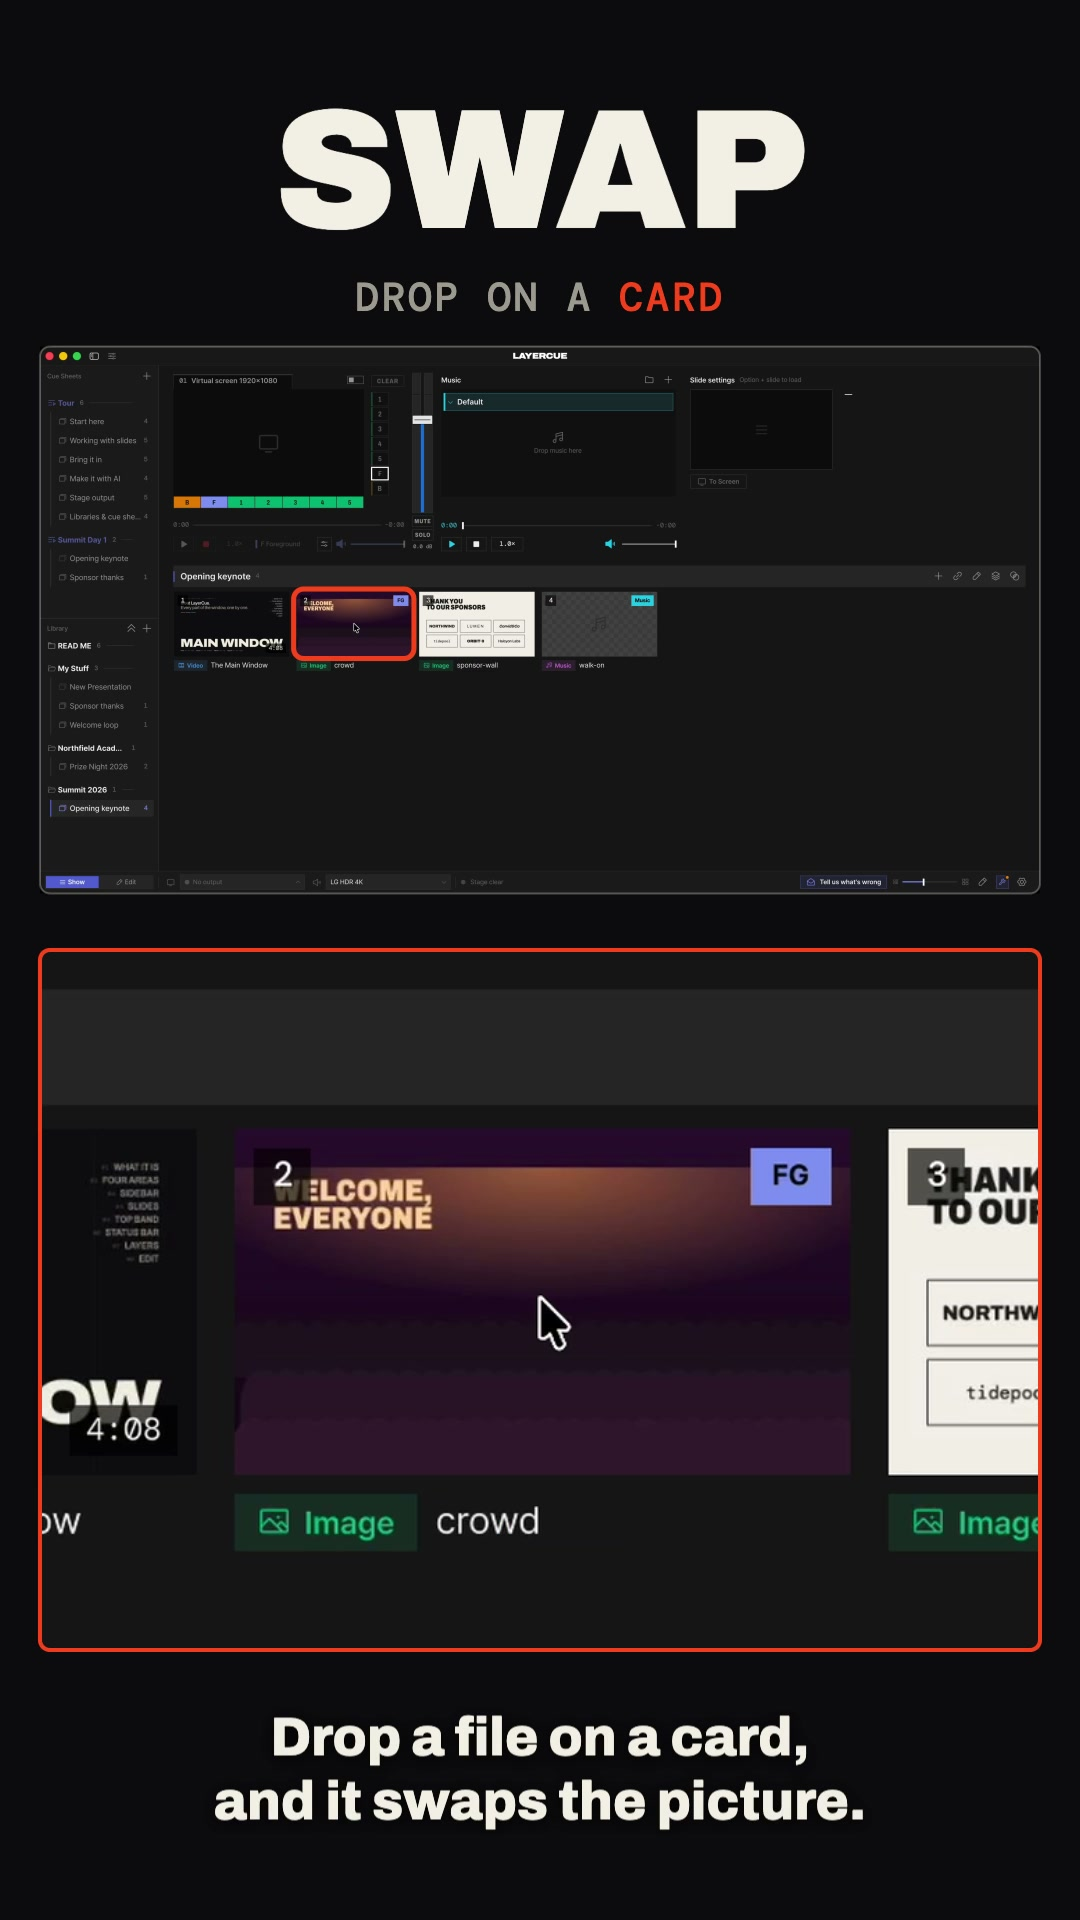
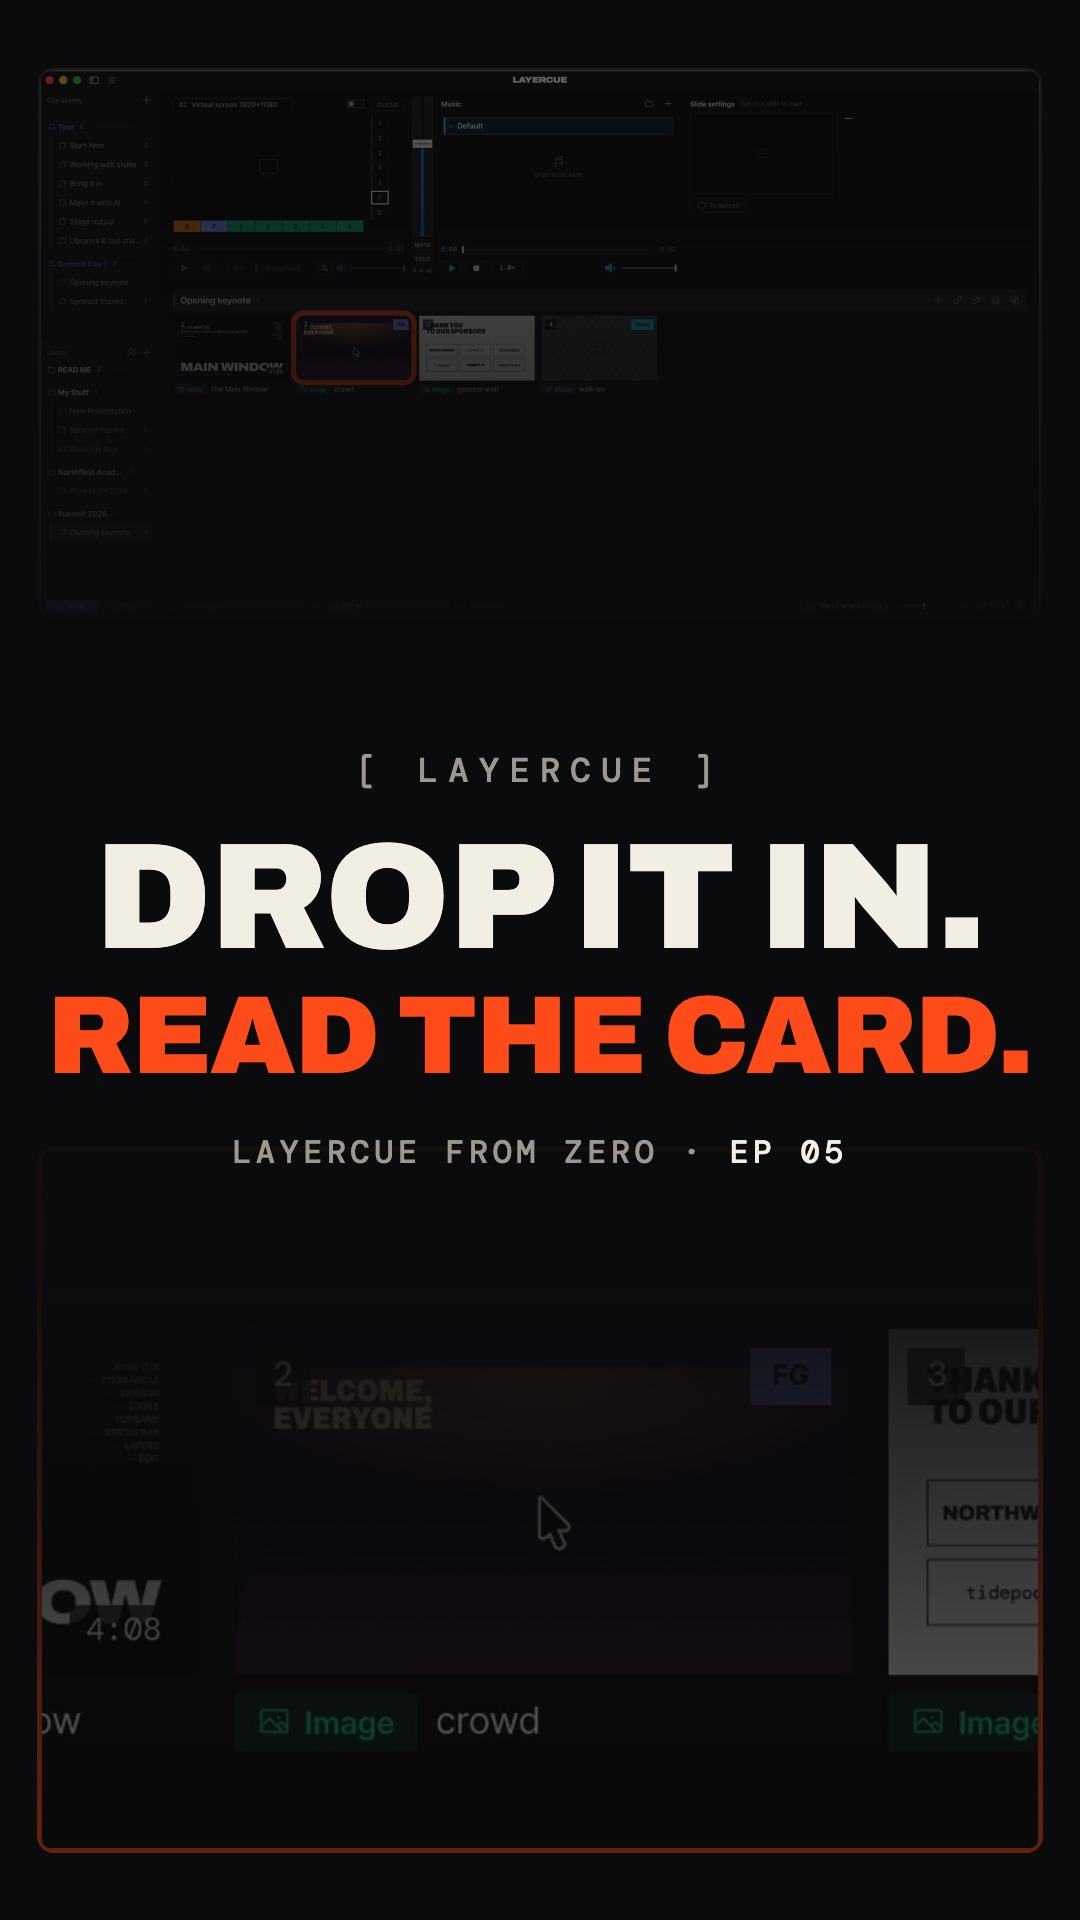
Shorts covers: the hook sits in the middle (Shorts grids crop to the centre)

diff --git a/video/shorts/cover.html b/video/shorts/cover.html
@@ -1,0 +1,28 @@
+<!doctype html><html><head><meta charset="utf-8"><link rel="stylesheet" href="../ep14/brand.css">
+<style>
+body{margin:0;background:#0B0B0D}
+#c{position:relative;width:1080px;height:1920px;overflow:hidden;background:var(--void);font-family:var(--disp)}
+.top,.bot{position:absolute;left:40px;width:1000px;border-radius:14px;overflow:hidden;opacity:.55}
+.top{top:70px;box-shadow:0 0 0 2px rgba(242,238,228,.18)}
+.bot{bottom:70px;box-shadow:0 0 0 3px var(--hot)}
+.top img,.bot img{width:100%;display:block}
+.fade{position:absolute;left:0;right:0;top:0;bottom:0;background:linear-gradient(180deg,rgba(11,11,13,.25) 0%,rgba(11,11,13,.92) 33%,rgba(11,11,13,.97) 50%,rgba(11,11,13,.92) 67%,rgba(11,11,13,.25) 100%)}
+.mid{position:absolute;left:0;right:0;top:50%;transform:translateY(-50%);text-align:center}
+.k{font:500 34px var(--mono);letter-spacing:.3em;color:var(--fg2)}
+.a,.b{font:900 150px/1 var(--disp);letter-spacing:-.01em;white-space:nowrap;display:inline-block}
+.a{color:var(--cream);margin-top:30px}.b{color:var(--hot);margin-top:8px}
+.ep{font:500 32px var(--mono);letter-spacing:.14em;color:var(--fg2);margin-top:40px}
+.ep b{color:var(--cream);font-weight:500}
+</style></head><body><div id="c">
+<div class="top"><img id="ti"></div><div class="bot"><img id="bi"></div><div class="fade"></div>
+<div class="mid"><div class="k">[ LAYERCUE ]</div><div><span class="a" id="a"></span></div><div><span class="b" id="b"></span></div>
+<div class="ep">LAYERCUE FROM ZERO · <b id="ep"></b></div></div></div>
+<script>
+const Q = new URLSearchParams(location.search);
+a.textContent = Q.get('a'); b.textContent = Q.get('b'); ep.textContent = 'EP ' + Q.get('ep');
+ti.src = Q.get('top'); bi.src = Q.get('bot');
+Promise.all(['900 150px Archivo', '500 34px "DM Mono"'].map(f => document.fonts.load(f))).then(() => Promise.all([...document.images].map(i => i.complete ? 0 : new Promise(r => i.onload = i.onerror = r)))).then(() => {
+  for (const el of [a, b]) { let fs = 150; while (el.offsetWidth > 1000 && fs > 60) { fs -= 2; el.style.fontSize = fs + 'px'; } }
+  window.__ready = true;
+});
+</script></body></html>

diff --git a/video/shorts/make_covers.py b/video/shorts/make_covers.py
@@ -1,0 +1,16 @@
+#!/usr/bin/env python3
+"""숏츠 표지 — 훅 두 줄을 가운데에(유튜브 숏츠 목록은 가운데만 보인다). 위 · 아래는 그 숏츠 2박의 창 · 확대 칸을 흐리게.
+    python3 shorts/make_covers.py   → shorts/<id>/out/<id>-cover.jpg · short03/out/…-cover.jpg"""
+import json, subprocess, pathlib
+H = pathlib.Path(__file__).resolve().parent; V = H.parent; args = []
+items = [("short03", "YOUR WHOLE SHOW.", "ONE WINDOW.", "01", V / "short03/out/short03-pick-click-watch-adjust.mp4", 10.5, V / "short03/out/short03-pick-click-watch-adjust-cover.jpg")]
+for d in sorted(p for p in H.glob("s[0-9]*") if p.is_dir()):
+    sp = json.load(open(d / "spec.json")); cfg = json.loads((d / "cfg.js").read_text()[10:].rstrip().rstrip(";"))
+    items.append((sp["id"], sp["hook"][0], sp["hook"][1], f"{int(sp['ep']):02d}", d / "out" / f"{sp['id']}.mp4", cfg["beats"][1]["t"] + 1.6, d / "out" / f"{sp['id']}-cover.jpg"))
+fr = H / "cover-src"; fr.mkdir(exist_ok=True)
+for sid, a, b, ep, mp4, t, out in items:
+    top, bot = fr / f"{sid}-top.png", fr / f"{sid}-bot.png"
+    for crop, f in (("1000:547:40:347", top), ("1000:700:40:950", bot)):
+        subprocess.run(["ffmpeg", "-v", "error", "-y", "-ss", str(t), "-i", str(mp4), "-frames:v", "1", "-vf", f"crop={crop}", str(f)], check=True)
+    args += [sid, a, b, ep, str(top), str(bot), str(out)]
+subprocess.run(["node", str(H / "covers.mjs"), *args], check=True, cwd=V)

diff --git a/video/shorts/package_shorts.py b/video/shorts/package_shorts.py
@@ -13,7 +13,7 @@ def one(d):
     sp = json.load(open(d / "spec.json")); sid = sp["id"]; ep = int(sp["ep"]); out = d / "out"
     if not (out / f"{sid}.mp4").exists(): print("no video", sid); return
     cfg = json.loads((d / "cfg.js").read_text()[len("var CFG = "):].rstrip().rstrip(";"))
-    subprocess.run(["ffmpeg", "-v", "error", "-y", "-ss", str(cfg["beats"][1]["t"] + 1.6), "-i", str(out / f"{sid}.mp4"), "-frames:v", "1", "-q:v", "2", str(out / f"{sid}-cover.jpg")], check=True)
+    # 표지는 shorts/make_covers.py 가 만든다(가운데에 훅 두 줄 — 목록에서는 세로 영상의 가운데만 보인다)
     T = [(sp["vo_at"][i], sp["vo_at"][i] + dur(d / "audio" / f"{i:02d}.wav")) for i in range(7)]
     for lang, L in (("en", sp["lines"]), ("ko", i18n.KO[sp["ep"]]), ("ja", i18n.JA[sp["ep"]])):
         (out / "subtitles" / f"{sid}-{lang}.srt").write_text("\n".join(f"{i+1}\n{ts(a)} --> {ts(b + .2)}\n{t}\n" for i, ((a, b), t) in enumerate(zip(T, L))))
